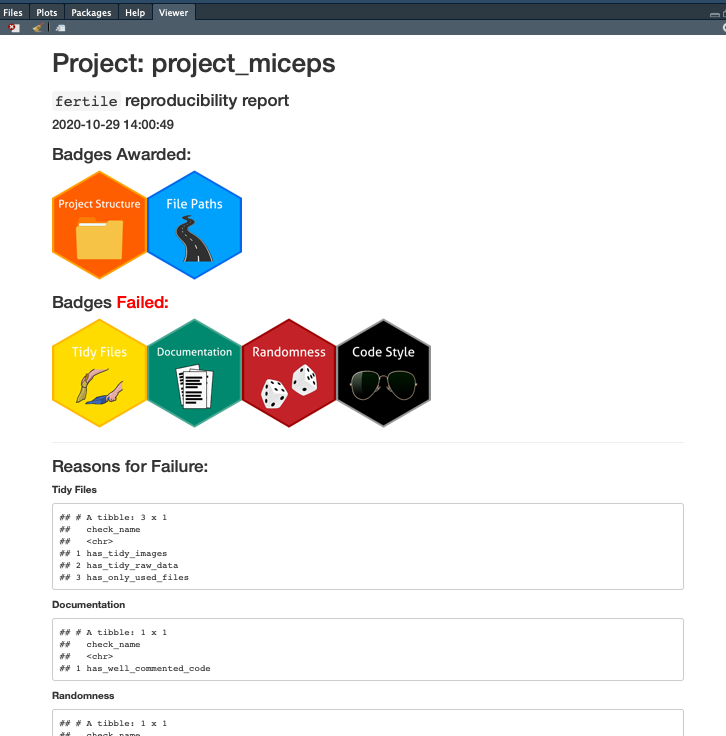
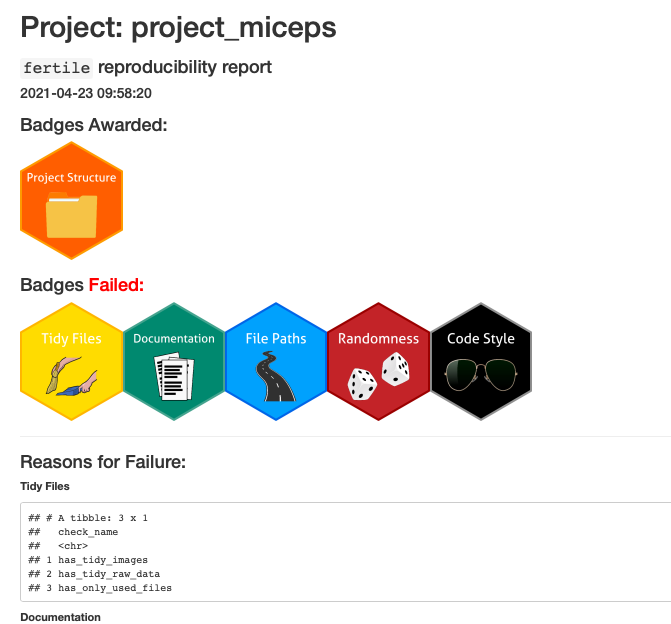
fixed proj_badge image issue

Changed region(s): [[0.0, 0.0, 1.0, 1.0]]

diff --git a/index.html b/index.html
@@ -418,30 +418,34 @@ setwd("project_miceps")
 .small[
 
 ```r
-proj_analyze_paths("project_miceps")
+has_no_absolute_paths("project_miceps")
 ```
 
 ```
-## ── Generating reproducibility report... ──────────────────── fertile 1.1.9003 ──
+## ● Checking for no absolute paths
 ```
 
 ```
-## Checking for absolute paths...
+##    Problem: Absolute paths are likely non-portable
 ```
 
 ```
-## Checking for paths outside project directory...
+##    Solution: Use relative paths. Move files if necessary.
 ```
 
 ```
-## # A tibble: 2 x 5
-##   path              path_abs             func    problem        solution        
-##   &lt;chr&gt;             &lt;chr&gt;                &lt;chr&gt;   &lt;chr&gt;          &lt;chr&gt;           
-## 1 /Users/audreyber… /Users/audreybertin… readr:… Absolute path… Use a relative …
-## 2 /Users/audreyber… /Users/audreybertin… readr:… Path is not c… Move the file a…
+##    See for help: ?fs::file_move; ?fs::path_rel
+```
+
+```
+## # A tibble: 1 x 2
+##   culprit                                  expr                                 
+##   &lt;fs::path&gt;                               &lt;glue&gt;                               
+## 1 /Users/audreybertin/Documents/fertile-s… fs::file_move('/Users/audreybertin/D…
 ```
 ]
 
+- `has_only_portable_paths()`: checks for paths outside directory
 
 ---
 ## Component 5: randomness
@@ -499,12 +503,12 @@ has_no_randomness('project_miceps')
 ---
 ## Overview functions
 
-&lt;img src="images/badges-1.png" width="80%" /&gt;
+&lt;img src="images/badges-1.png" width="75%" /&gt;
 
 ---
 ## Overview functions
 
-&lt;img src="images/badges-2.png" width="968" /&gt;
+&lt;img src="images/badges-2.png" width="965" /&gt;
 
 ---
 ## Customization
@@ -555,7 +559,7 @@ fertile::read.csv
 ##     utils::read.csv(file, ...)
 ##   }
 ## }
-## &lt;bytecode: 0x7fe738f84cd0&gt;
+## &lt;bytecode: 0x7f882b5fc7c8&gt;
 ## &lt;environment: namespace:fertile&gt;
 ```
 
